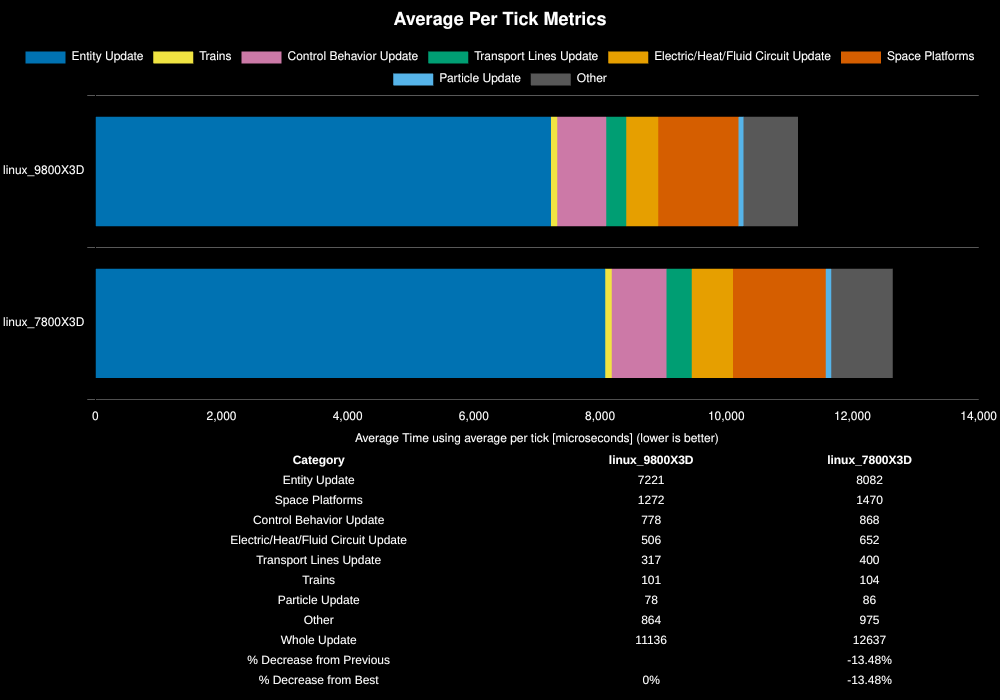
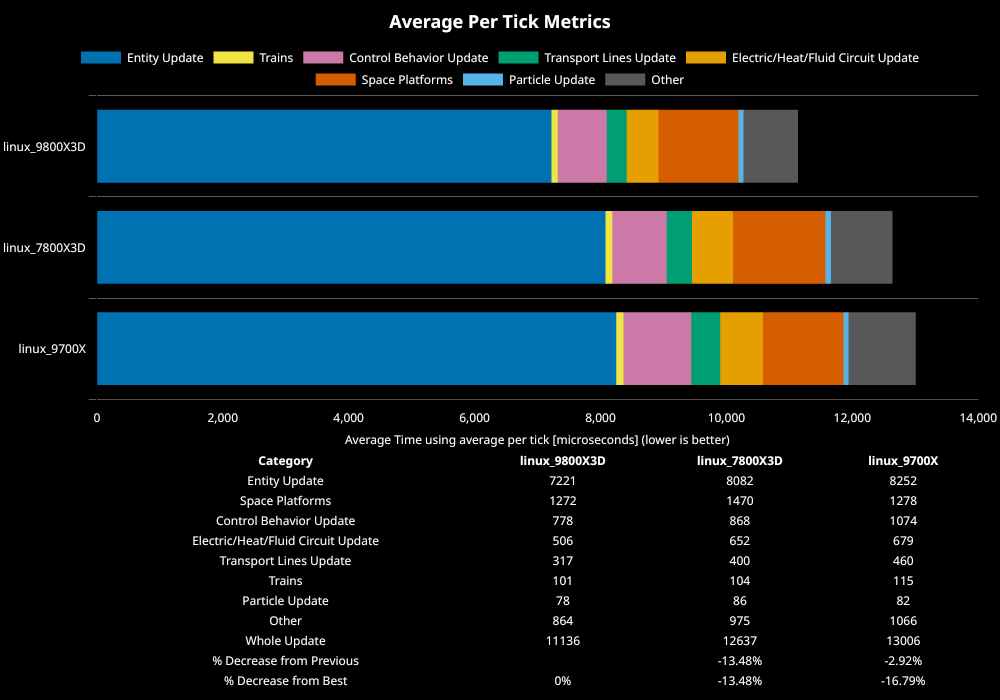
feat: Add 9700X data

diff --git a/benchmarks/hardware/README.md b/benchmarks/hardware/README.md
@@ -16,3 +16,4 @@ Save file running research productivity at 100k SPM for an effective 2 million E
 |---|---|---|---|---|---|---|---|---|---|---|---|
 |linux_9800X3D|7221|1272|778|506|317|101|78|864|11136||0%|
 |linux_7800X3D|8082|1470|868|652|400|104|86|975|12637|-13.48%|-13.48%|
+|linux_9700X|8252|1278|1074|679|460|115|82|1066|13006|-2.92%|-16.79%|

diff --git a/benchmarks/hardware/charts/summary.md b/benchmarks/hardware/charts/summary.md
@@ -2,3 +2,4 @@
 |---|---|---|---|---|---|---|---|---|---|---|---|
 |linux_9800X3D|7221|1272|778|506|317|101|78|864|11136||0%|
 |linux_7800X3D|8082|1470|868|652|400|104|86|975|12637|-13.48%|-13.48%|
+|linux_9700X|8252|1278|1074|679|460|115|82|1066|13006|-2.92%|-16.79%|
